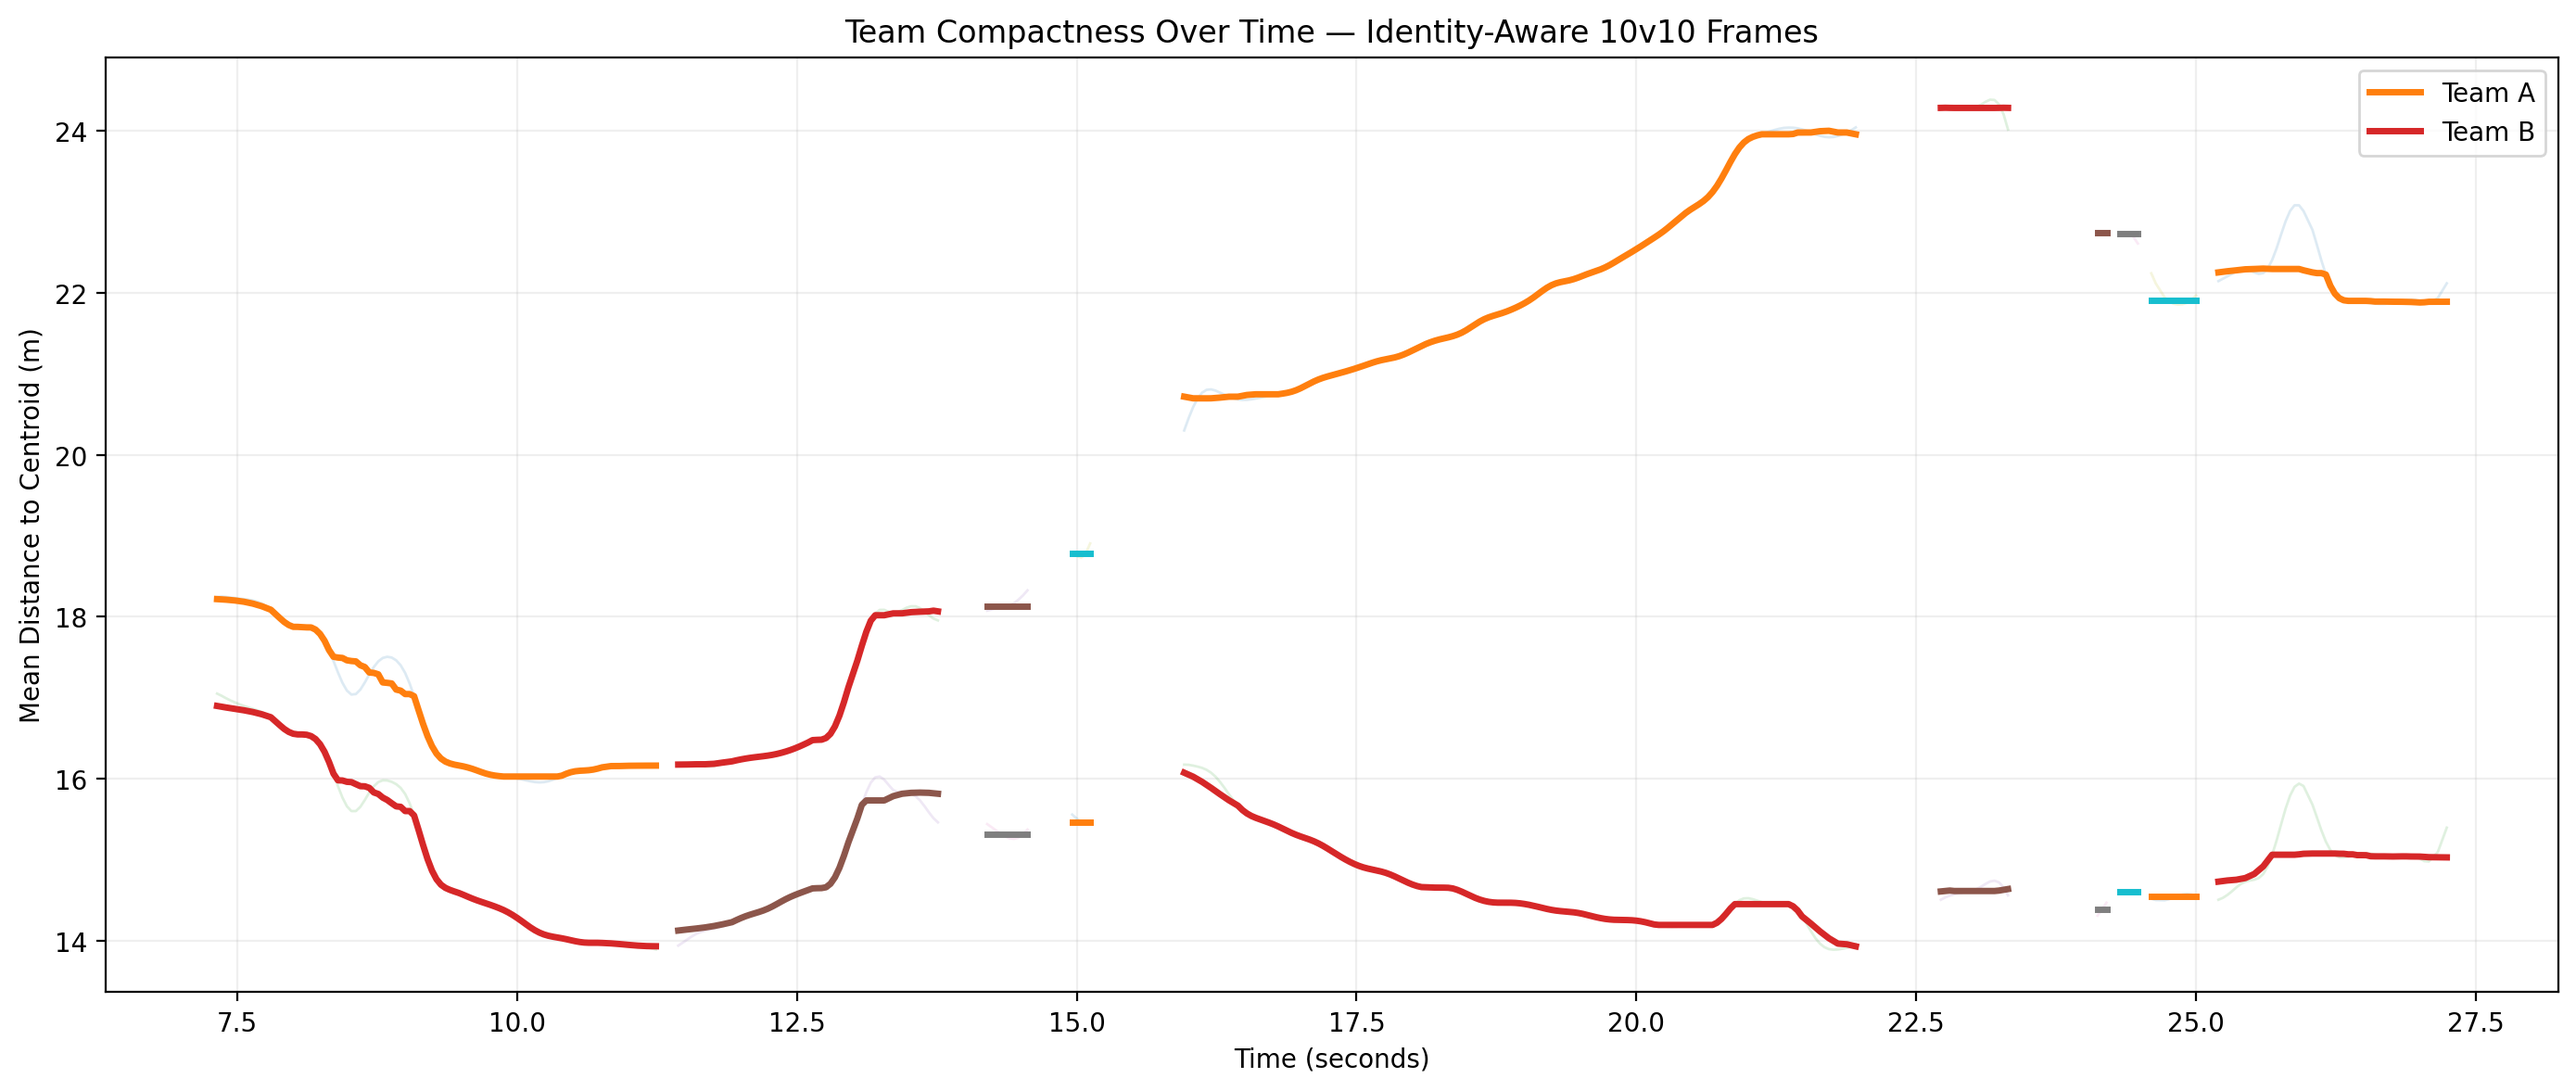
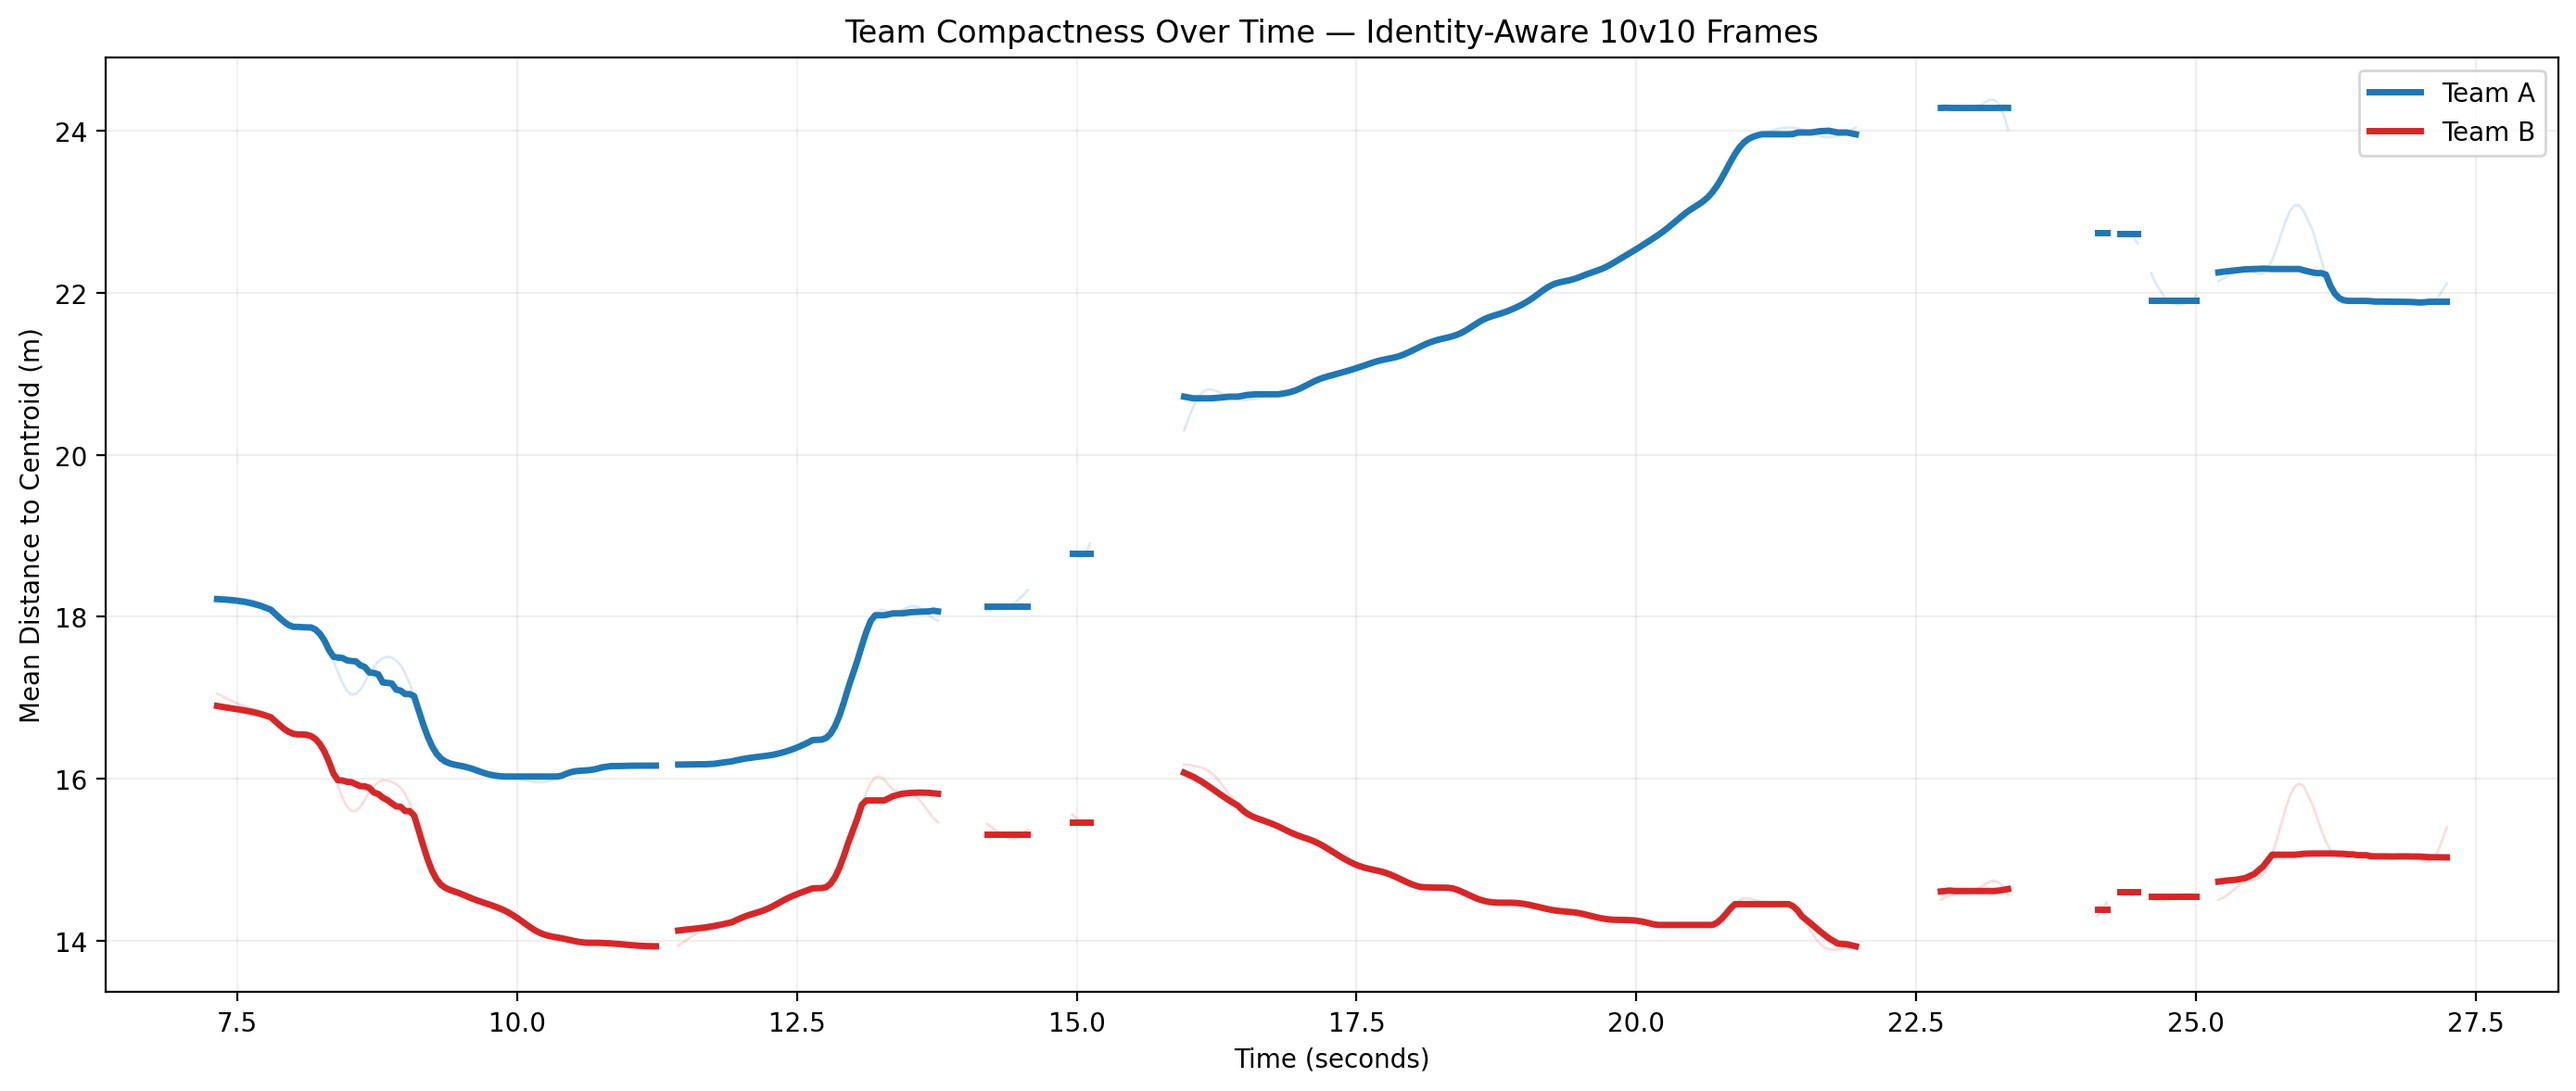
fix: keep team colors consistent across plot segments

diff --git a/src/analytics/team_shape_over_time_v2.py b/src/analytics/team_shape_over_time_v2.py
@@ -185,7 +185,11 @@ def plot_metric(
     )
 
 
+    team_colors = {"A": "tab:blue", "B": "tab:red"}
+
     for team_name in ["A", "B"]:
+
+        team_color = team_colors[team_name]
 
         team = df[
             df["team"] == team_name
@@ -203,6 +207,7 @@ def plot_metric(
             ax.plot(
                 segment["time_sec"],
                 segment[raw_column],
+                color=team_color,
                 alpha=0.15,
                 linewidth=1
             )
@@ -212,6 +217,7 @@ def plot_metric(
             ax.plot(
                 segment["time_sec"],
                 segment[smooth_column],
+                color=team_color,
                 linewidth=2.5,
                 label=(
                     f"Team {team_name}"
